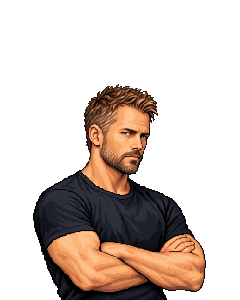
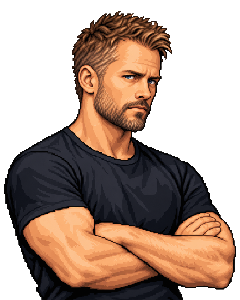
Retrato do Jonas no mesmo enquadramento dos outros
O retrato era gerado com no máximo 216 px de altura: sobrava uma faixa vazia de 84 px acima
da cabeça e ele ficava menor que o resto do elenco na seleção (no card e no painel grande).
Agora o busto preenche a largura (margens de 4 px), como os outros retratos; o sprite gerado
pelo mesmo script não muda (pixels idênticos).

Claude-Session: https://claude.ai/code/session_01AosHuw67kEFdeP1oLwfeZj

diff --git a/scripts/jonas-art/prepare.py b/scripts/jonas-art/prepare.py
@@ -66,9 +66,10 @@ def prepare():
     OUTPUT.mkdir(parents=True, exist_ok=True)
     atlas.save(OUTPUT / 'sprite.png')
     portrait, _ = isolate(Image.open(HERE / 'portrait-source.png'))
-    # Bottom-aligned cover cards crop the top of the texture on paginated layouts.
-    # Keep the complete face inside their visible lower region without changing the renderer.
-    scale = min(232/portrait.width,216/portrait.height)
+    # Same framing as the other portraits: the bust fills the width (4 px margins), feet of the
+    # canvas at the bottom, a little headroom on top. A shorter bust left an empty band above
+    # the head and a smaller figure than the rest of the roster on the select screen.
+    scale = min(232/portrait.width,290/portrait.height)
     portrait = portrait.resize((round(portrait.width*scale),round(portrait.height*scale)),Image.Resampling.NEAREST)
     canvas = Image.new('RGBA',(240,300))
     canvas.paste(portrait,((240-portrait.width)//2,300-portrait.height))
